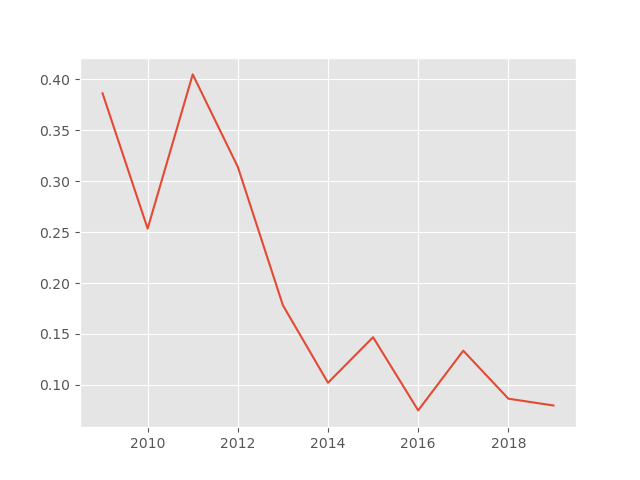
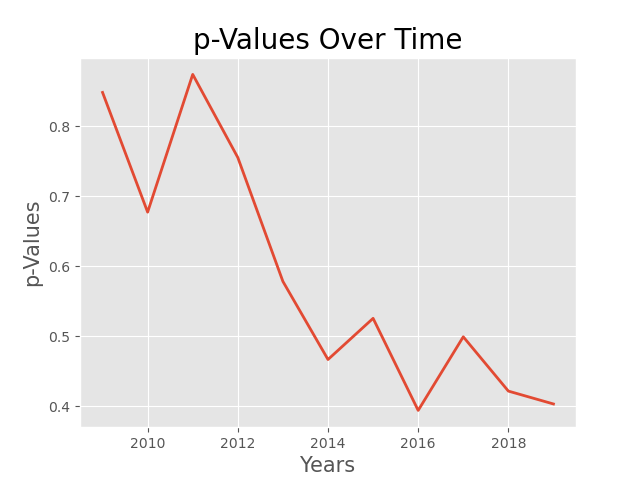
Wrapping up draft of README, dealing with formatting. Hypothesis testing also updated to a t-test.

diff --git a/src/hypothesis_testing.py b/src/hypothesis_testing.py
@@ -38,67 +38,71 @@ def restrict_to_year_col(df, year, col):
 
     return df[df['year'] == year][col].to_numpy()
 
-def bootstrap_mean(data, samples=10**6):
-    '''
-    Bootstraps a given sample to find an approximation of the mean of the population and 
-    returns that mean and the standard deviation of that bootstrapped mean.
+# def bootstrap_mean(data, samples=10**6):
+#     '''
+#     Bootstraps a given sample to find an approximation of the mean of the population and 
+#     returns that mean and the standard deviation of that bootstrapped mean.
 
-    Parameters
-    ----------
-    data - An ndarray of the sample we are bootstrapping.
+#     Parameters
+#     ----------
+#     data - An ndarray of the sample we are bootstrapping.
 
-    samples - The number of bootstraps to take, defaulted at 10,000.
+#     samples - The number of bootstraps to take, defaulted at 10,000.
 
-    Returns
-    ----------
-    mean - The result of the bootstrapped mean.
+#     Returns
+#     ----------
+#     mean - The result of the bootstrapped mean.
 
-    std - The standard deviation of the bootstrapped mean.
-    '''
+#     std - The standard deviation of the bootstrapped mean.
+#     '''
 
-    bootstrap = []
-    for i in range(samples):
-        sample = np.random.choice(data, size=len(data), replace=True)
-        bootstrap.append(np.mean(sample))
-    return np.mean(bootstrap), np.std(bootstrap)
+#     bootstrap = []
+#     for i in range(samples):
+#         sample = np.random.choice(data, size=len(data), replace=True)
+#         bootstrap.append(np.mean(sample))
+#     return np.mean(bootstrap), np.std(bootstrap)
 
-def hypothesis_testing(df, null_year, test_year, col):
-    '''
-    Takes in a dataframe, a year for the null hypothesis, a year for an alternate hypothesis
-    and a column to test in the data frame. Pulls relevant data from the dataframe and then 
-    bootstraps a mean to contruct a normally distributed fit for generating a p-value. It then
-    prints out the p-value that was found, as well as the mean and std from the bootstrapping.
+# def hypothesis_testing(df, null_year, test_year, col):
+#     '''
+#     Takes in a dataframe, a year for the null hypothesis, a year for an alternate hypothesis
+#     and a column to test in the data frame. Pulls relevant data from the dataframe and then 
+#     bootstraps a mean to contruct a normally distributed fit for generating a p-value. It then
+#     prints out the p-value that was found, as well as the mean and std from the bootstrapping.
 
-    Parameters
-    ----------
-    df - A dataframe containing all the data in question.
+#     Parameters
+#     ----------
+#     df - A dataframe containing all the data in question.
 
-    null_year - The year of data we are using to construct our null hypothesis.
+#     null_year - The year of data we are using to construct our null hypothesis.
 
-    test_year - The year of data we are using to test out null hypothesis.
+#     test_year - The year of data we are using to test out null hypothesis.
 
-    col - The column of data fro the dataframe that we are testing.
-    '''
-    null_data = restrict_to_year_col(restrict(df), null_year, col)
-    test_data = restrict_to_year_col(restrict(df), test_year, col)
+#     col - The column of data fro the dataframe that we are testing.
+#     '''
+#     null_data = restrict_to_year_col(restrict(df), null_year, col)
+#     test_data = restrict_to_year_col(restrict(df), test_year, col)
 
-    null_mean, null_std = bootstrap_mean(null_data)
-    test_mean, test_std = bootstrap_mean(test_data)
+#     null_mean, null_std = bootstrap_mean(null_data)
+#     test_mean, test_std = bootstrap_mean(test_data)
 
-    null_dist = stats.norm(loc=null_mean, scale = null_std)
-    p = 1 - null_dist.cdf(test_mean)
+#     null_dist = stats.norm(loc=null_mean, scale = null_std)
+#     p = 1 - null_dist.cdf(test_mean)
 
-    print(f'p-Value: {p}')
-    print(f'Null hypothesis\nMean: {null_mean}\nSTD: {null_std}')
-    print(f'Test Data\nMean: {test_mean}\nSTD: {test_std}')
-    return p
+#     print(f'p-Value: {p}')
+#     print(f'Null hypothesis\nMean: {null_mean}\nSTD: {null_std}')
+#     print(f'Test Data\nMean: {test_mean}\nSTD: {test_std}')
+#     return p
+def t_test(df, start, year):
+    a = restrict_to_year_col(restrict(data), start, 'numcol')
+    b = restrict_to_year_col(restrict(data), year, 'numcol')
+    return stats.ttest_ind(a,b, equal_var=False)[1]
 
-def p_trend(df, start, end, col):
+def p_trend(df, start, end):
     lst = []
     for year in range(start+1,end+1):
-        lst.append(hypothesis_testing(df, start, year, col))
+        lst.append(t_test(df, start, year))
     print(lst)
 
 if __name__ == '__main__':
     data = pd.read_csv('data/full.csv')
-    p_trend(data, 2008, 2019, 'numcol')
+    print(p_trend(data, 2008, 2019))

diff --git a/src/data_pipeline.py b/src/data_pipeline.py
@@ -1,23 +1,24 @@
 import numpy as np
 import pandas as pd
 
-#Instantiating a few lists to aid in the parsing of the raw data and then establishing it as a Pandas Dataframe
+#Instantiating a few lists to aid in the parsing of the raw data and then 
+# establishing it as a Pandas Dataframe
 
-states = ["Alabama","Alaska","Arizona","Arkansas","California","Colorado",
-  "Connecticut","Delaware","Florida","Georgia","Hawaii","Idaho","Illinois",
-  "Indiana","Iowa","Kansas","Kentucky","Louisiana","Maine","Maryland",
-  "Massachusetts","Michigan","Minnesota","Mississippi","Missouri","Montana",
-  "Nebraska","Nevada","New Hampshire","New Jersey","New Mexico","New York",
-  "North Carolina","North Dakota","Ohio","Oklahoma","Oregon","Pennsylvania",
-  "Rhode Island","South Carolina","South Dakota","Tennessee","Texas","Utah",
-  "Vermont","West Virginia","Virginia","Washington","Wisconsin","Wyoming"]
+states = ["Alabama", "Alaska", "Arizona", "Arkansas", "California", "Colorado",
+        "Connecticut", "Delaware", "Florida", "Georgia", "Hawaii", "Idaho", "Illinois",
+        "Indiana", "Iowa", "Kansas", "Kentucky", "Louisiana", "Maine", "Maryland",
+        "Massachusetts", "Michigan", "Minnesota", "Mississippi", "Missouri", "Montana",
+        "Nebraska", "Nevada", "New Hampshire", "New Jersey", "New Mexico", "New York",
+        "North Carolina", "North Dakota", "Ohio", "Oklahoma", "Oregon", "Pennsylvania",
+        "Rhode Island", "South Carolina", "South Dakota", "Tennessee", "Texas", "Utah",
+        "Vermont", "West Virginia", "Virginia", "Washington", "Wisconsin", "Wyoming"]
 abbrev = ["AL", "AK", "AZ", "AR", "CA", "CO", "CT", "DE", "FL", "GA", 
           "HI", "ID", "IL", "IN", "IA", "KS", "KY", "LA", "ME", "MD", 
           "MA", "MI", "MN", "MS", "MO", "MT", "NE", "NV", "NH", "NJ", 
           "NM", "NY", "NC", "ND", "OH", "OK", "OR", "PA", "RI", "SC", 
           "SD", "TN", "TX", "UT", "VT", "WV", "VA", "WA", "WI", "WY"]
-columns = ['state', 'numcol', 'yieldpercol', 'totalprod', 'stocks', 'priceperlb',
-       'prodvalue', 'year']
+columns = ['state', 'numcol', 'yieldpercol', 'totalprod', 'stocks', 
+        'priceperlb', 'prodvalue', 'year']
 
 def clean_raw_data(file, num):
     '''
@@ -41,12 +42,12 @@ def clean_raw_data(file, num):
         year = year.replace(cha, '')
     for state, abb in zip(states, abbrev):
         year = year.replace(state, abb)
-    
+
     year = year.split('\n')
 
     for idx in range(len(year)):
         year[idx] = year[idx].split()
-    
+
     #Had a consistent empty list in the final index after splitting
     year.pop()
 
@@ -58,7 +59,7 @@ def clean_raw_data(file, num):
         year[idx][5] = int(year[idx][5]) / 100
         year[idx][6] = int(year[idx][6]) * 1000
         year[idx].append(num)
-    
+
     return year
 
 def collate_raw(lst):
@@ -97,13 +98,13 @@ def write_csv(original, new, file_path):
 
 
 if __name__ == '__main__':
-    years = [['data/2013.txt',2013],
-            ['data/2014.txt',2014],
-            ['data/2015.txt',2015],
-            ['data/2016.txt',2016],
-            ['data/2017.txt',2017],
-            ['data/2018.txt',2018],
-            ['data/2019.txt',2019]]
+    years = [['data/2013.txt', 2013],
+            ['data/2014.txt', 2014],
+            ['data/2015.txt', 2015],
+            ['data/2016.txt', 2016],
+            ['data/2017.txt', 2017],
+            ['data/2018.txt', 2018],
+            ['data/2019.txt', 2019]]
 
     new = collate_raw(years)
     old = pd.read_csv('data/honeyproduction.csv')

diff --git a/src/graphing.py b/src/graphing.py
@@ -118,10 +118,13 @@ def plot_bootstrapping():
     plt.savefig('../images/bootstrap.png')
 
 def graph_p_trend():
-    p = [0.3862232280335094, 0.2534236075018639, 0.4047977807203983, 0.3139966169088154, 0.17816875285764522, 0.10210491385477227, 0.14679809921295872, 0.07497801965410111, 0.13358829420777574, 0.0864766216030779, 0.07980551371784905]
+    p = [0.8484881181188515, 0.6774445778008072, 0.8742513963611638, 0.7554420590236682, 0.5784368740046202, 0.46686840125275564, 0.5256868182957398, 0.3941496099894497, 0.4993195517295863, 0.4217370653718848, 0.4033256486903477]
     years = list(range(2009,2020))
     fig, ax = plt.subplots()
-    ax.plot(years, p)
+    ax.plot(years, p, linewidth=2)
+    ax.set_title('p-Values Over Time', fontsize=20)
+    ax.set_xlabel('Years', fontsize=15)
+    ax.set_ylabel('p-Values', fontsize=15)
     plt.savefig('../images/p_value_trend.png')
 
 

diff --git a/README.md b/README.md
@@ -8,7 +8,6 @@ Bees of course play in incredibly vital role in their ecosystems as pollinators.
 ## Questions
 - How have domestic bee populations responded after the uptick in CCD?
 - If they are recovering to what extent can we see that?
-- More than just the colonies, how has the honey industry been effecting in the wake of this colony die-off?
 
 ## The Data
 The focus on domestic bee colonies in the questions above is due to the nature of the data we are working with. While domestic honey producers have to register their operations with the USDA wild colonies obviously don't and as such the only complete data we have is for domestic colonies.
@@ -17,7 +16,7 @@ Data was sourced at first from a [kaggle dataset](https://www.kaggle.com/jessica
 <p align='center'>
 <img src='images/raw_data.png' alt='Raw format of data' width=600>
 </p>
-Once cleaned the data was merged with the kaggle dataset and a new complete csv was written, it can be found in this repositories data directory.
+Once cleaned the data was merged with the kaggle dataset and a new complete csv was written, it can be found in this repository's data directory.
 
 In terms of quality the data is wonderful, all listed states in the report have values for every field so nan values were not an issue. Furthermore I was able to simply keep all the columns present as they covered exactly the information I was looking for. That said several states we not present in every year's report. Whichever states were omitted were bundled into a single field in order to not disclose data for individual operations. That said even the sum of these states was small and as such I omitted them from my study in order to ensure consistent data for all years from 1998-2019.
 
@@ -29,8 +28,8 @@ Our first question of how bee populations have responded in the wake of CCD is a
 Now right off the bat I for one was surprised at this rate of loss in 2004-2008. While it's clear to see I was expecting something a lot more drastic based on what I knew about CCD. While this dip does represent a loss of tens of thousands of hives I expected more severity. As for the recovery of colonies it appears that we have not only returned to but surpassed colony levels from before CCD. But this is afterall an average, so maybe the picture will be clearer if we break it down by state.
 
 <p align='center'>
-<img src='images/map_2008.png' alt='Map of colonies in 2008' width=400>
-<img src='images/map_2019.png' alt='Map of colonies in 2019' width=400>
+<img src='images/map_2008.png' alt='Map of colonies in 2008'>
+<img src='images/map_2019.png' alt='Map of colonies in 2019'>
 </p>
 Looking at these a few things caught my attention. Firstly while there does seem to be a definite increase in hives it doesn't appear that dramatic. Secondly there seems to be no change in North Dakota, South Dakota, and California. In fact they seem to have had plentiful hives even at the lowest point nationally in the past 21 years. I was curious how their numbers looked compared to the national trend.
 <p align='center'>
@@ -41,25 +40,23 @@ And we can immediately see that they are outliers to put it mildly. At the lowes
 ## Hypothesis Testing
 Well our first step, as always with hypothesis testing, is to come up with some hypotheses. In particular our null and alternative:
 <p align='center'>
-<b>H<sub>0</sub>: Our current &mu; = Our lowest &mu; <br>
-H<sub>A</sub>: Our current &mu; > Our lowest &mu; </b>
+<b>H<sub>0</sub>: &mu; of 2008 = &mu; of 2019<br>
+H<sub>A</sub>: &mu; of 2008 < &mu; of 2019</b>
 </p>
-To quickly summarize we're starting with a null hypothesis that the average of our current population is actually the same as it was in 2008, at our lowest point in the dataset. Our alternative is that our current population average is actually higher. In our final step before collecting data we'll select an alpha value of .05, mainly because it's good standard and I want to feel confident in the result.
+To quickly summarize we're starting with a null hypothesis that the mean of our current population is actually the same as it was in 2008, at our lowest point in the dataset. Our alternative is that our current population average is actually higher. Our next two steps before we actually start doing math are settling on a test and selecting an alpha value. Since we're testing whether two samples are drawn from the same population or not the obvious answer is a [Students t-test](https://en.wikipedia.org/wiki/Student%27s_t-test) which was developed for this exact purpose. As for our alpha, how certain we want to be that they are in fact different, we'll go for the standard value of .05.
 
-Now in order to test this we'll need to find estimations of the population average for 2008 and 2019 as well as the variance of that estimation in 2008. Since we're working with essentially a single sample for each year with a sample size of 39 we'll have to rely on [bootstrapping](https://en.wikipedia.org/wiki/Bootstrapping_%28statistics%29) for those estimations. Our final consideration before doing that analysis though has to be the outliers we discovered earlier. Seeing as they are so distant from the mean, and also represent states that barely felt the effects of CCD we're going to be discounting them to focus on the recovery of the rest of the country.
-<p align='center'> 
-<img src='images/bootstrap.png' alt='Bootstrapping results'>
-</p>
-The exact process can be found in src/hypothesis_testing.py but in short 10*6 resamples were taken from each 2008 and 2019 and means were compared leading to a p-Value of .08. While close this doesn't reach the threshold we set and as such we can't reject our null hypothesis.
+When we run our test using `scipy.stats.ttest_ind()` and feeding in our samples from 2008 and 2019 the results are less than exciting to put it plainly. We arrive at a p-value of .40, very much above our threshold of rejection. As such we've failed to reject our null hypothesis and we can't say that there's statistical evidence that bee populations have substantively recovered since 2008.
 
-## The Honey Industry
-Run through visualizations of honey production metrics, show the strong correlation between price and total value and the non-existent correlation elsewhere. Look into honey industry reports for some kind of explanation or elaboration.
+## Conclusion and Further Steps
+So where does this leave us? While it seems like the population is recovering when we look at the population trends we can't confirm that through hypothesis testing. So what good is a hunch without proof? How much longer do I have to lose sleep thinking about the threat that CCD poses to bee colonies?
 
-## Conclusion
-Overall hopeful outlook even without a nice p-value (maybe a graph of p values from 09 onward showing a trend?) Maybe highlight how insane ND is.
+Well as it turns out even though we can't reject our null hypothesis currently I'm fully confident that they are in fact recovering. Whenever testing a hypothesis over time it's important to view the p-values of many points in time. The latest date may be the most immediately interesting but in order to really be confident that a change has happened you have to protect yourself from fluke years. For instance if bees had one really good year and their population skyrocketed you could get a p-value under .05, but if that population falls right back down the next year that's no kind of real recovery. As such the key is to look at the trend of p-values, if real recovery is occuring they'll start trending towards 0, just like it's suggested in the graph below.
 <p align='center'> 
 <img src='images/p_value_trend.png' alt='Bootstrapping results'>
 </p>
+While we don't have that many data points yet it does seem like a trend is emerging. So while it may not be time to open a bottle of champagne just yet, it looks like that day isn't too far away. We just have to wait and see where further data leads us.
+
+While we wait for that data, however, there is plenty of other things to dig into. In fact we haven't touched the majority of the data in our dataset that pertains to actual honey production. My next steps on this analysis are going to focus on how the honey industry has responded to the CCD crisis. Another point of interest moving forward will be
 
 ## Sources and acknowledgements
 Self-explanatory
